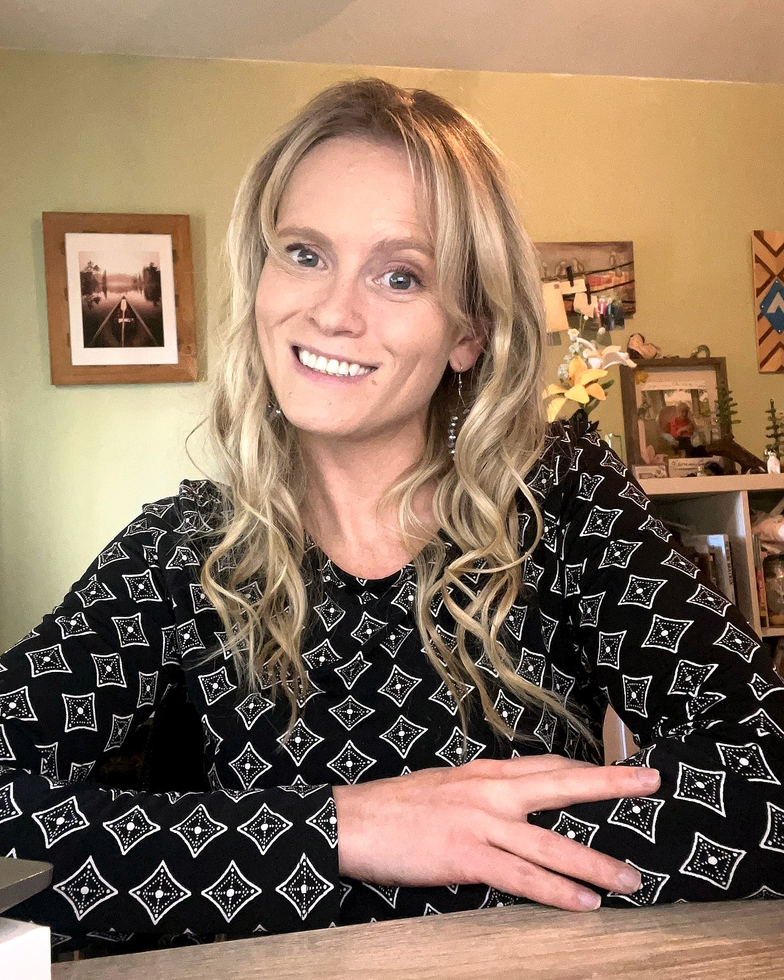
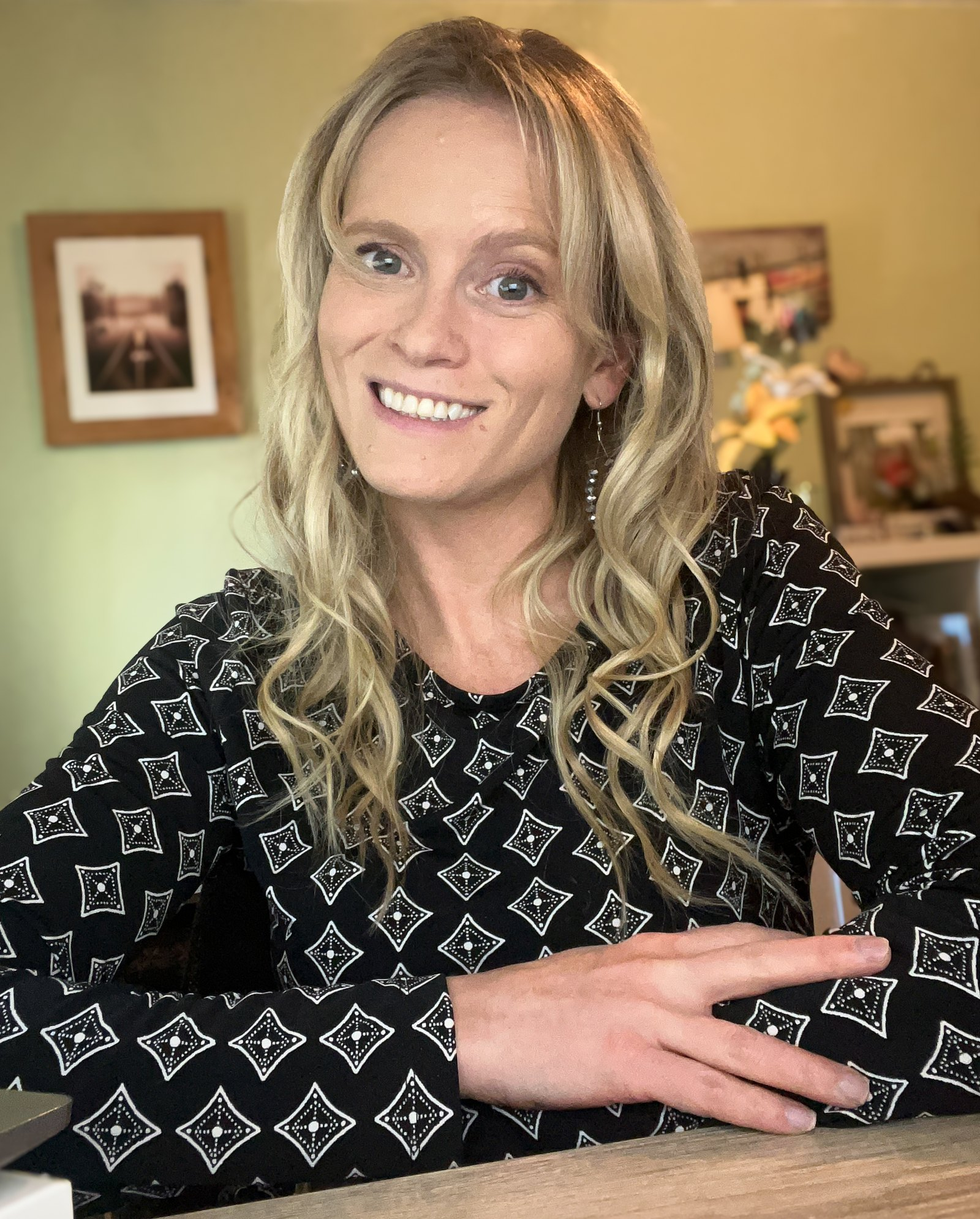
Use Chelsey's own edited portrait, mom-and-baby and birthday photos
Claude-Session: https://claude.ai/code/session_01Mox99SEw5ydXqTuFS3DSCC

diff --git a/src/data/images.ts b/src/data/images.ts
@@ -194,13 +194,12 @@ export const photos = {
   'mom-holding-newborn': {
     file: 'mom-holding-newborn.jpg',
     alt: 'A smiling woman in a knit hat cuddling a sleeping newborn baby',
-    w: 1503, h: 2000,
-    focus: '50% 35%',
+    w: 1600, h: 2130,
   },
   'birthday-girl-cake': {
     file: 'birthday-girl-cake.jpg',
     alt: 'A little girl laughing and pointing beside her doll birthday cake',
-    w: 1134, h: 1536,
+    w: 1096, h: 1384,
     focus: '50% 50%',
   },
   'cupcake-dessert-table': {
